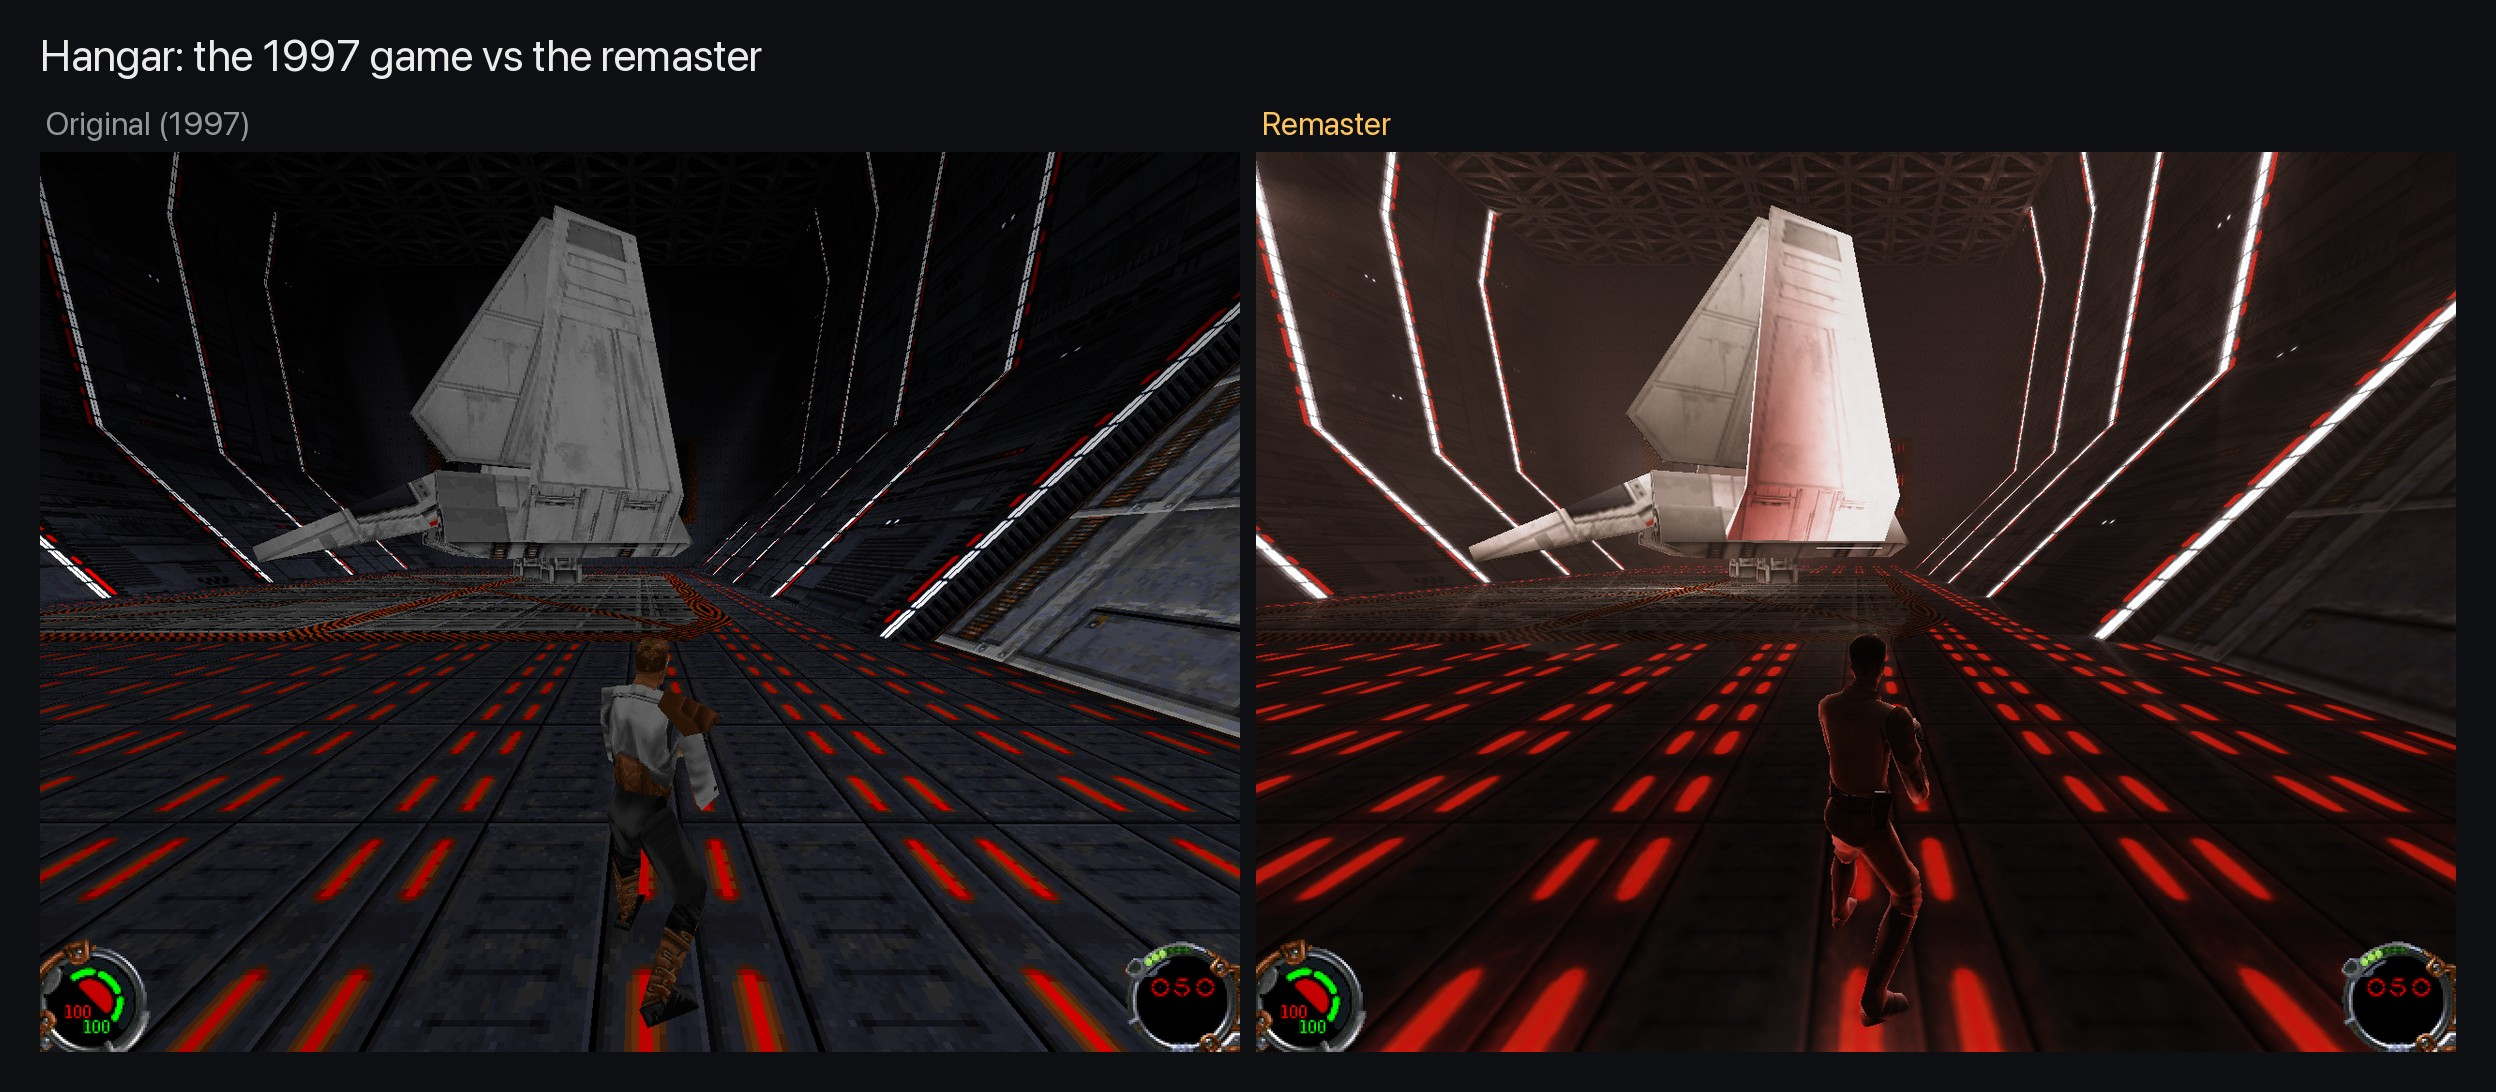
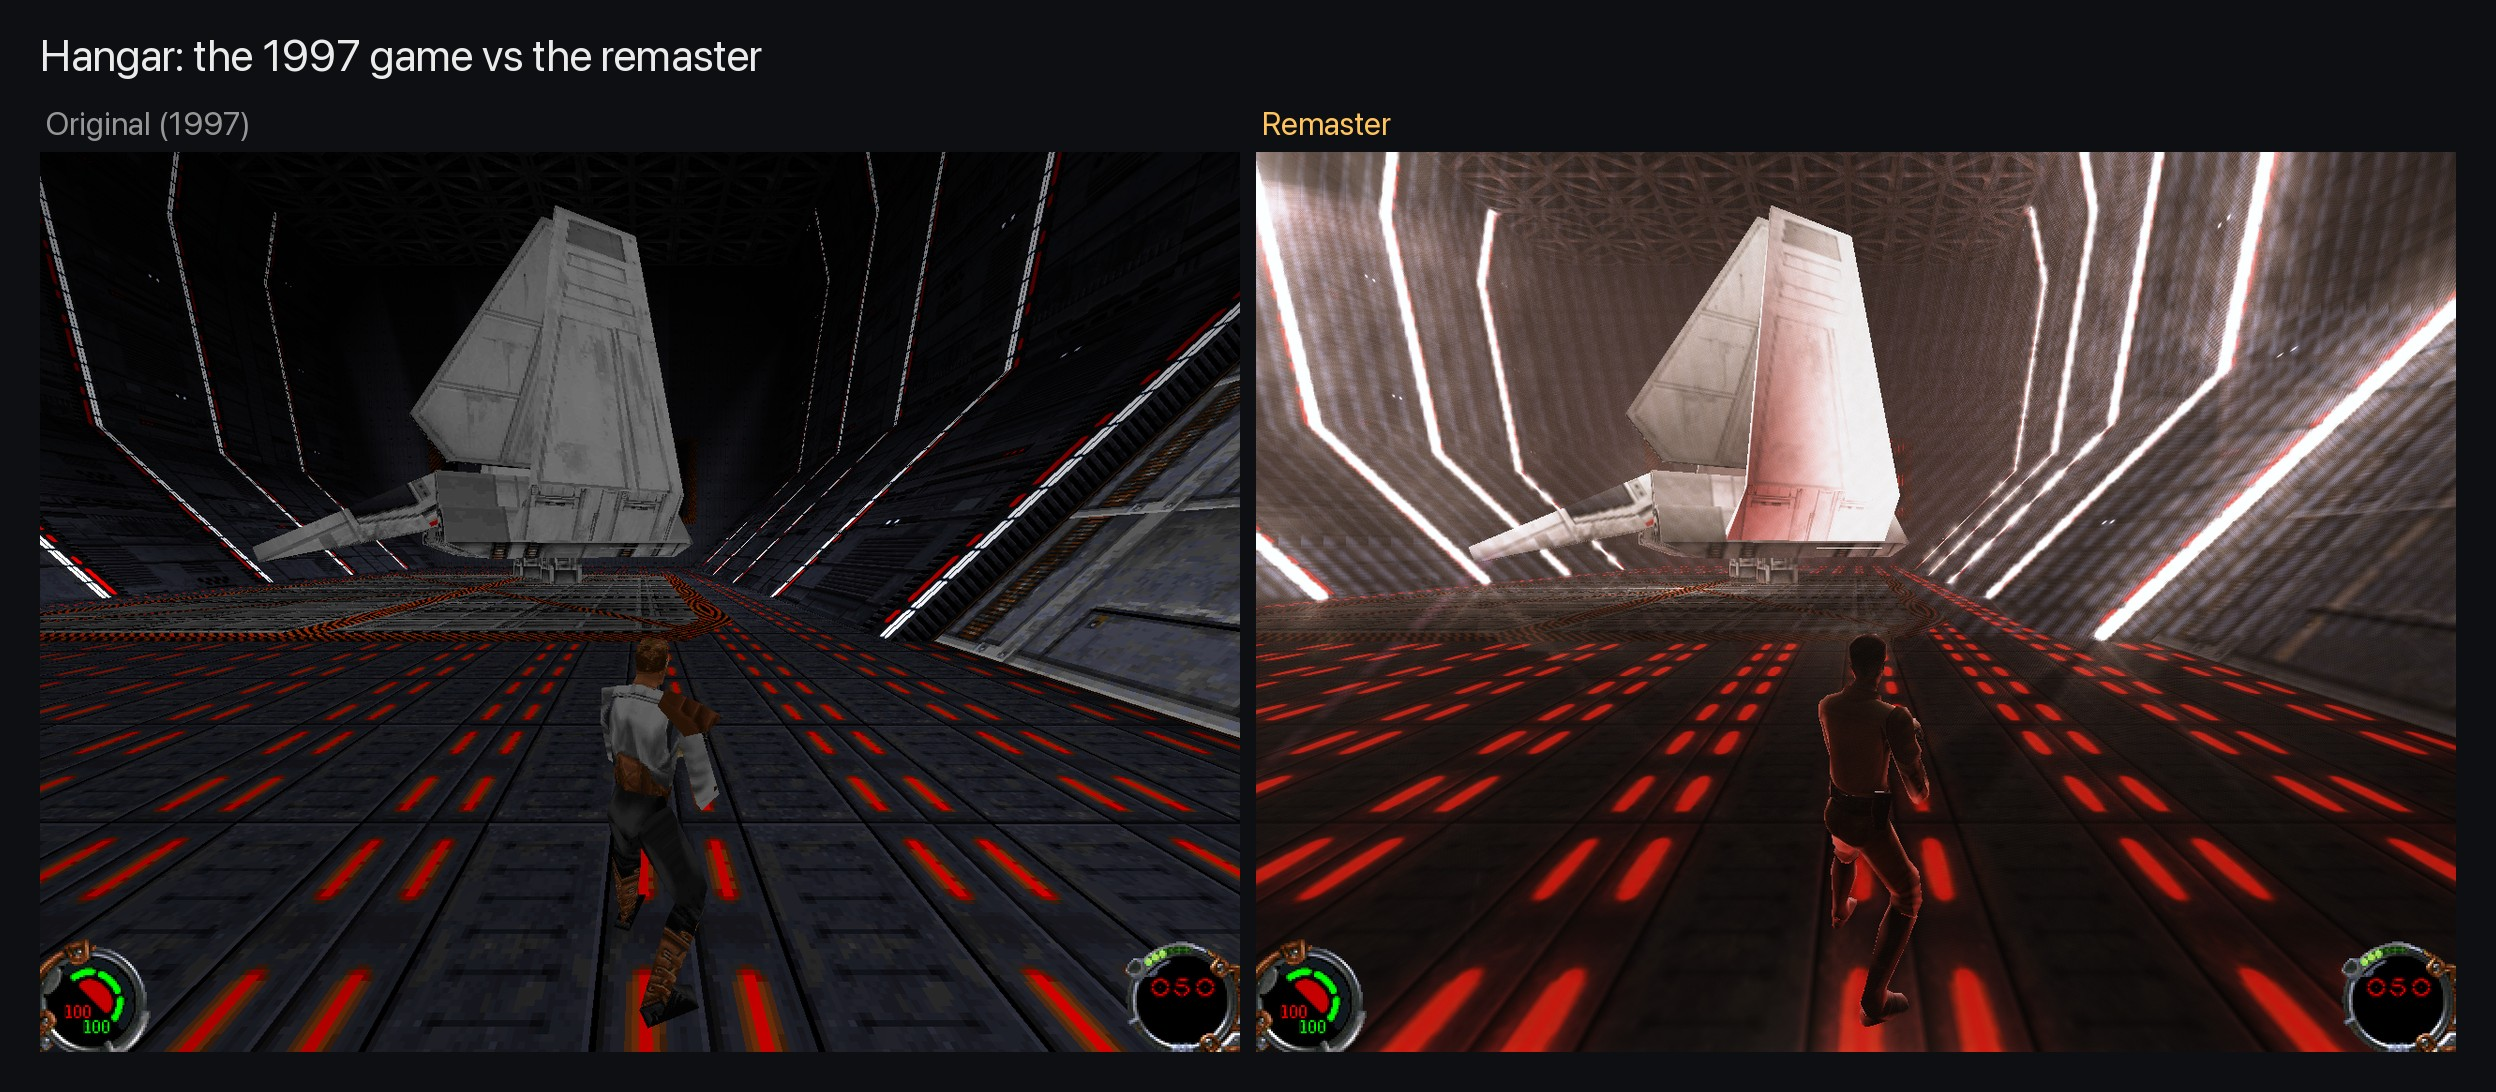
Bloom on bright light fixtures, lens flares (anamorphic streak, ghosts, halo)

Changed region(s): [[0.5, 0.1245, 1.0, 0.6538]]

diff --git a/src/Platform/GL/std3D.c b/src/Platform/GL/std3D.c
@@ -133,6 +133,7 @@ GLint attribute_coord3d, attribute_v_color, attribute_v_light, attribute_v_uv, a
 #define STD3D_PPL_MAX_LIGHTS (32)
 GLint attribute_v_invz = -1;
 static GLint uniform_ppl = -1, uniform_pplNumLights = -1, uniform_pplLightPos = -1, uniform_pplLightCol = -1;
+static GLint uniform_fixtureBloom = -1; // Added (remaster)
 static GLint uniform_pplAtten = -1, uniform_pplProj = -1, uniform_pplScreen = -1, uniform_pplSpecular = -1, uniform_pplWetness = -1;
 static GLint uniform_pplNumGlow = -1, uniform_pplGlowPos = -1, uniform_pplGlowCol = -1;
 static GLint uniform_ssrWrite = -1, uniform_pplUpCam = -1;
@@ -150,6 +151,7 @@ static int std3D_ssrHaveCamera = 0;
 std3DSimpleTexStage std3D_hazeStage;
 // Added (remaster): volumetric fog (sithAtmos), lit by the baked light volume.
 std3DSimpleTexStage std3D_fogStage;
+std3DSimpleTexStage std3D_flareStage; // Added (remaster): lens flares
 static GLuint std3D_fogTex[2] = {0, 0};
 static GLint std3D_fogU[16];
 static float std3D_fogCamPos[3];
@@ -672,6 +674,7 @@ int init_resources()
         for (int k = 0; k < 14; k++) std3D_fogU[k] = std3D_tryFindUniform(std3D_fogStage.program, names[k]);
     }
     else std3D_fogStage.program = 0;
+    if (!std3D_loadSimpleTexProgram("shaders/flare", &std3D_flareStage)) std3D_flareStage.program = 0; // Added (remaster)
     if (!std3D_loadSimpleTexProgram("shaders/shafts", &std3D_shaftStage)) return false;
     std3D_shaftUniformNum = std3D_tryFindUniform(std3D_shaftStage.program, "u_numShafts");
     std3D_shaftUniformPos = std3D_tryFindUniform(std3D_shaftStage.program, "u_shaftPos");
@@ -703,6 +706,7 @@ int init_resources()
     uniform_pplProj = std3D_tryFindUniform(programDefault, "u_pplProj");
     uniform_pplScreen = std3D_tryFindUniform(programDefault, "u_pplScreen");
     uniform_pplSpecular = std3D_tryFindUniform(programDefault, "u_pplSpecular");
+    uniform_fixtureBloom = std3D_tryFindUniform(programDefault, "u_fixtureBloom");
     uniform_pplWetness = std3D_tryFindUniform(programDefault, "u_pplWetness");
     uniform_pplNumGlow = std3D_tryFindUniform(programDefault, "u_pplNumGlow");
     uniform_pplGlowPos = std3D_tryFindUniform(programDefault, "u_pplGlowPos");
@@ -3433,6 +3437,15 @@ void std3D_DrawSceneFbo()
         std3D_DrawSimpleTex(&std3D_texFboStage, pOut, std3D_pFb->blur2.tex, 0, 0, 1.0, bloom_intensity * 1.0, jkPlayer_gamma, 0);
         std3D_DrawSimpleTex(&std3D_texFboStage, pOut, std3D_pFb->blur3.tex, 0, 0, 1.0, bloom_intensity * 1.0, jkPlayer_gamma, 0);
         std3D_DrawSimpleTex(&std3D_texFboStage, pOut, std3D_pFb->blur4.tex, 0, 0, 1.0, bloom_intensity * 0.8, jkPlayer_gamma, 0);
+
+        // Added (remaster): lens flares (streak, ghosts, halo) from the bloom source.
+        if (jkPlayer_bLensFlares && std3D_flareStage.program && !jkGuiBuildMulti_bRendering)
+        {
+            glBlendFunc(GL_ONE, GL_ONE);
+            std3D_DrawSimpleTex(&std3D_flareStage, pOut, std3D_pFb->blur1.tex, 0, 0, jkPlayer_flareStrength,
+                                (float)std3D_pFb->w / (float)(std3D_pFb->h ? std3D_pFb->h : 1), 0.0, 0);
+            glBlendFunc(GL_SRC_ALPHA, GL_SRC_ALPHA);
+        }
     }
     // Added (remaster): grade the composited scene onto the window.
     if (draw_grade)
@@ -3723,6 +3736,7 @@ void std3D_DrawRenderList()
                         rdCamera_g_pCurCamera->focalLength, 0.0f);
             glUniform4f(uniform_pplScreen, internalWidth, internalHeight, width, height);
             glUniform1f(uniform_pplSpecular, jkPlayer_specular);
+            glUniform1f(uniform_fixtureBloom, jkPlayer_enableBloom ? jkPlayer_fixtureBloom : 0.0f); // Added (remaster)
 
             // Added (remaster): world up in camera space (floors reflect most), and the values
             // the reflection pass needs later in the frame.

diff --git a/src/World/jkPlayer.c b/src/World/jkPlayer.c
@@ -74,6 +74,9 @@ int jkPlayer_bGlowLights = 0;                               // Added (remaster):
 int jkPlayer_bReflections = 0;                              // Added (remaster)
 flex_t jkPlayer_reflectionStrength = 1.0;                   // Added (remaster)
 int jkPlayer_bHaze = 0;                                     // Added (remaster)
+int jkPlayer_bLensFlares = 0;                               // Added (remaster): streaks, ghosts and halo from bright sources
+flex_t jkPlayer_flareStrength = 1.0;
+flex_t jkPlayer_fixtureBloom = 1.0;                         // Added (remaster): bright light fixtures feed bloom
 int jkPlayer_bVolumetricFog = 0;                            // Added (remaster): fog lit by the baked light volume (sithAtmos)
 flex_t jkPlayer_fogDensity = 0.1;                          // per world unit
 flex_t jkPlayer_fogGain = 1.0;
@@ -256,6 +259,11 @@ void jkPlayer_StartupVars()
     sithCvar_RegisterBool("r_haze",                     0,                          &jkPlayer_bHaze,                    CVARFLAG_LOCAL);
     // Volumetric fog (atmosphere): replaces the haze where a level has a baked light volume
     // (tools/blender/volume_bake.py). Needs r_haze too.
+    // Lens flares from everything that blooms, and bright light fixtures (skylights, lamps) feeding
+    // bloom. Need r_enableBloom.
+    sithCvar_RegisterBool("r_lensFlares",               0,                          &jkPlayer_bLensFlares,              CVARFLAG_LOCAL);
+    sithCvar_RegisterFlex("r_flareStrength",            1.0,                        &jkPlayer_flareStrength,            CVARFLAG_LOCAL);
+    sithCvar_RegisterFlex("r_fixtureBloom",             1.0,                        &jkPlayer_fixtureBloom,             CVARFLAG_LOCAL);
     sithCvar_RegisterBool("r_volumetricFog",            0,                          &jkPlayer_bVolumetricFog,           CVARFLAG_LOCAL);
     sithCvar_RegisterFlex("r_fogDensity",               0.1,                        &jkPlayer_fogDensity,               CVARFLAG_LOCAL);
     sithCvar_RegisterFlex("r_fogGain",                  1.0,                        &jkPlayer_fogGain,                  CVARFLAG_LOCAL);
@@ -352,6 +360,7 @@ static const jkPlayerPresetEntry jkPlayer_aRemasterPreset[] = {
     {"r_reflectionRoughness","0.5", "0.5"},
     {"r_haze",               "1",   "0"},
     {"r_volumetricFog",      "1",   "0"},   // only levels with a baked light volume change
+    {"r_lensFlares",         "1",   "0"},
     {"r_hazeDensity",        "0.08","0.08"},
     {"r_hazeStrength",       "1",   "1"},
     {"r_lightShafts",        "1",   "0"},

diff --git a/src/World/jkPlayer.h b/src/World/jkPlayer.h
@@ -178,6 +178,9 @@ extern flex_t jkPlayer_lightmapGain;
 extern flex_t jkPlayer_lightmapMax;
 extern int jkPlayer_bLightProbes;
 extern int jkPlayer_bVolumetricFog;
+extern int jkPlayer_bLensFlares;
+extern flex_t jkPlayer_flareStrength;
+extern flex_t jkPlayer_fixtureBloom;
 extern flex_t jkPlayer_fogDensity;
 extern flex_t jkPlayer_fogGain;
 extern flex_t jkPlayer_fogMaxDist;

diff --git a/docs/DECISIONS.md b/docs/DECISIONS.md
@@ -633,3 +633,5 @@ Dom approved docs/stage2-atmosphere-plan.md. Branch `stage2-atmosphere`.
 **Homepage comparisons are all 1997 vs remaster** (Dom: the light maps image was wrong, "make sure everything on that page shows actual original 97 gfx vs new versions"). `scripts/capture_showcase.sh orig|remaster [views]` captures 11 standard views (Nar Shaddaa first and third person, hangar, Sarris, Boc, Yun, cargo yard, tower, fuel station, Barons Hed, saber). The README's Latest section now only shows those pairs, the cast sheet, Texture God's texture sheet and the cutscenes; feature on/off and tuning images stay here in the log.
 
 **Push window** (Dom, 2026-11-12): no pushing Mon-Fri before 18:00; commits stay local until then.
+
+**Bloom on light fixtures and lens flares** (Dom: "that overhead light needs to bloom and have some flares"). Bloom only read the emissive buffer (glow maps, sabers, sky), so ordinary bright textures like Nar Shaddaa's skylight never bloomed. Now level faces whose texture is near-white (luminance over 0.8) and lit to near full brightness feed bloom (`r_fixtureBloom` 1): skylights, lamps and light panels in every level. Characters are excluded (bright uniforms bloomed in the first try). New lens flare pass (`r_lensFlares`, in the remaster preset; `r_flareStrength` 1) on the bloom source: a cool anamorphic horizontal streak, four tinted ghosts through the screen centre and a faint halo. docs/screenshots/stage2-bloom-flares.jpg. All homepage comparisons recaptured with it.

diff --git a/.github/README.md b/.github/README.md
@@ -129,6 +129,10 @@ Six levels, 1997 vs remaster:
 
 ![The 1997 game vs the remaster](../docs/screenshots/stage2-1997-vs-remaster.jpg)
 
+**Bloom and lens flares:** bright light fixtures (skylights, lamps, light panels) bloom, and everything bright throws a film-style anamorphic streak and lens ghosts:
+
+![Bloom and lens flare, 1997 vs remaster](../docs/screenshots/stage2-bloom-flares.jpg)
+
 **Skies:** a volumetric cloud sky on the storm levels and presets for the rest (Nar Shaddaa smog, Sulon overcast, day and sunset skies):
 
 ![Skies, 1997 vs remaster](../docs/screenshots/stage2-volumetric-sky.jpg)
